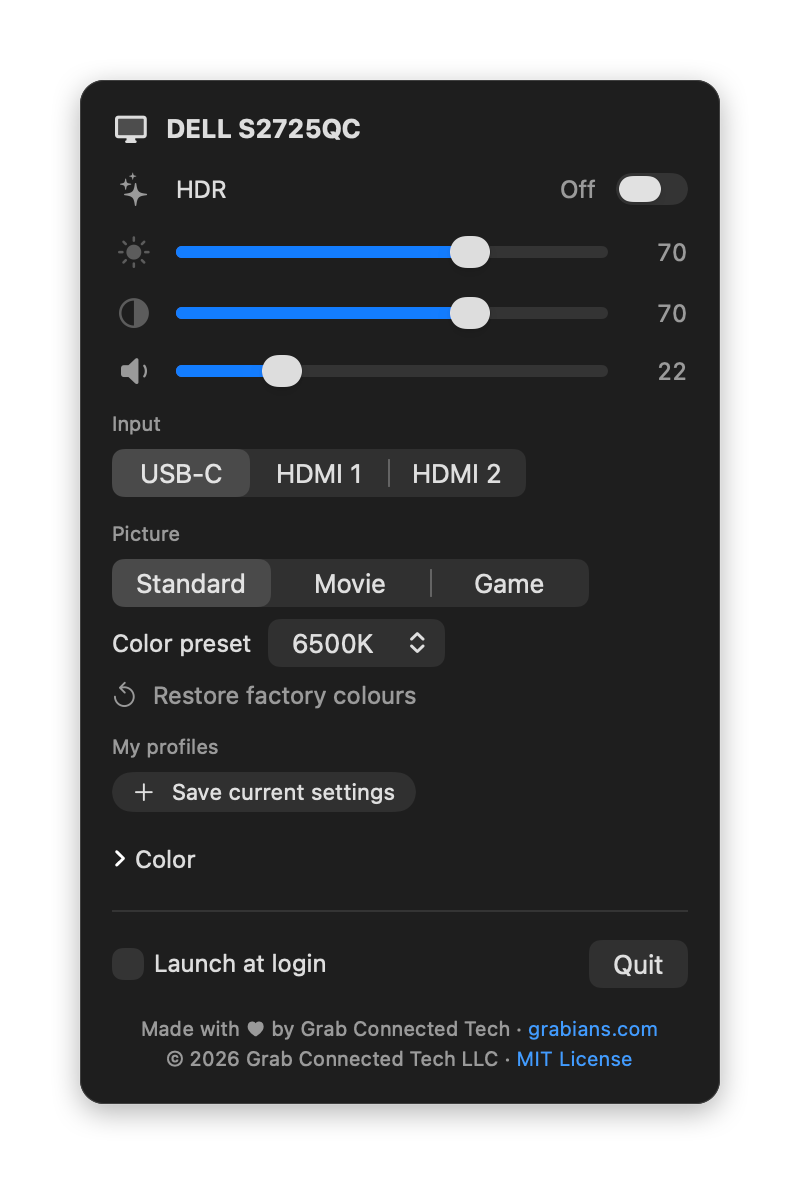
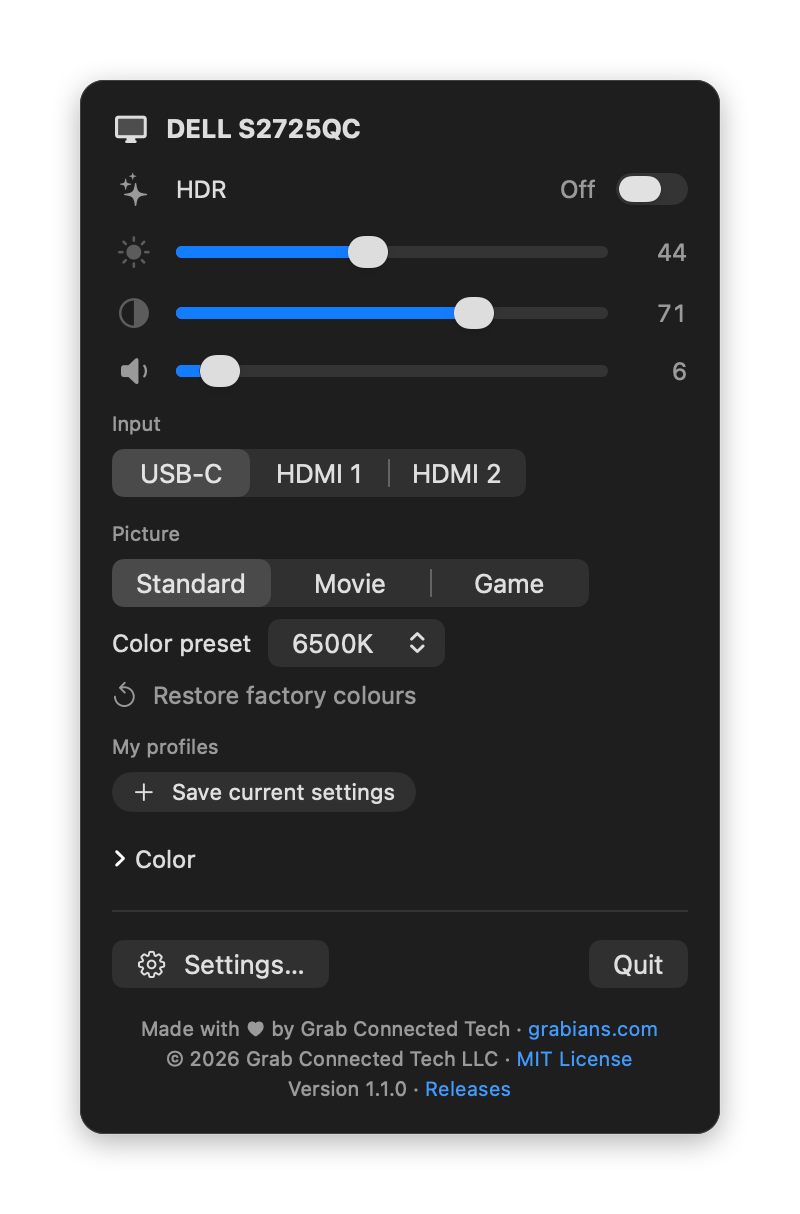
Refresh README screenshots
Re-rendered docs/panel-{light,dark}.png from the current panel. The
screenshot build now embeds an Info.plist so the footer shows the real
version instead of "dev", and registers hint.dismissed so the one-time
keyboard hint (shown from the second panel open on) no longer appears
in only the second render.

diff --git a/Sources/Screenshots.swift b/Sources/Screenshots.swift
@@ -5,6 +5,9 @@ import SwiftUI
 
 enum Screenshots {
     static func run() {
+        // Every render counts as a panel open, which would show the one-time keyboard hint in
+        // only some renders. Registered defaults aren't persisted.
+        UserDefaults.standard.register(defaults: ["hint.dismissed": true])
         let displays = Displays()
         displays.rescan()
         displays.selected?.refresh()
